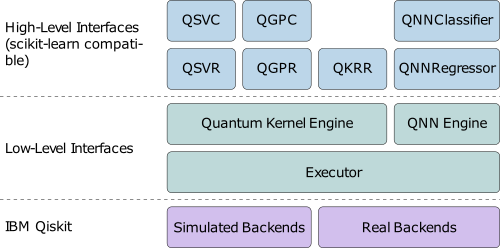
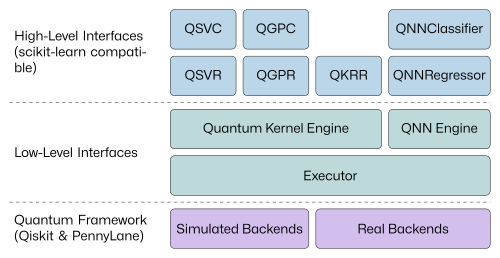
update readme and schematic (#247)

diff --git a/README.md b/README.md
@@ -4,7 +4,7 @@
 
 sQUlearn is a user-friendly, NISQ-ready Python library for quantum machine learning (QML), designed for seamless integration with classical machine learning tools like scikit-learn. The library's dual-layer architecture serves both QML researchers and practitioners, enabling efficient prototyping, experimentation, and pipelining. sQUlearn provides a comprehensive toolset that includes both quantum kernel methods and quantum neural networks, along with features like customizable data encoding strategies, automated execution handling, and specialized kernel regularization techniques. By focusing on NISQ-compatibility and end-to-end automation, sQUlearn aims to bridge the gap between current quantum computing capabilities and practical machine learning applications.
 
-sQUlearn offers scikit-learn compatible high-level interfaces for various kernel methods and QNNs. They build on top of the low-level interfaces of the QNN engine and the quantum kernel engine. The executor is used to run experiments on simulated and real backends in the Qiskit environment.
+sQUlearn offers scikit-learn compatible high-level interfaces for various kernel methods and QNNs. They build on top of the low-level interfaces of the QNN engine and the quantum kernel engine. The executor is used to run experiments on simulated and real backends of the Qiskit or PennyLane frameworks.
 
 <p align="center">
   <img width=500px alt="sQUlearn schematic" src="https://raw.githubusercontent.com/sQUlearn/squlearn/main/docs/_static/schematic.png" />
